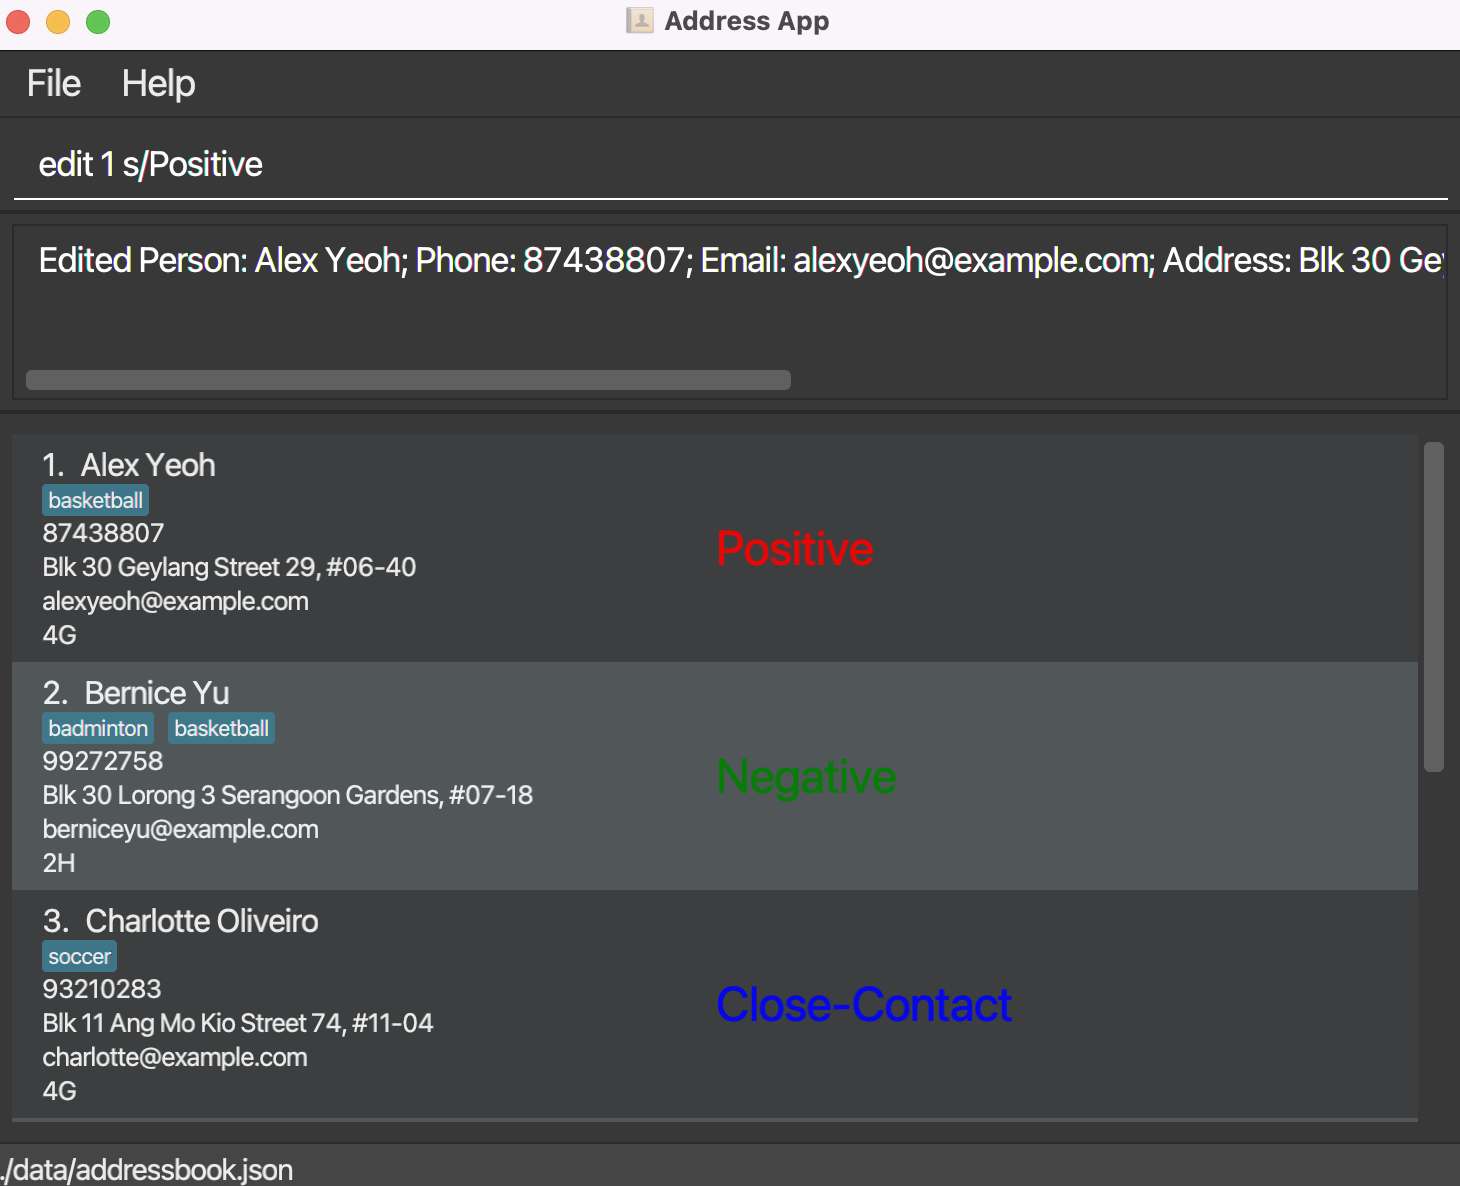
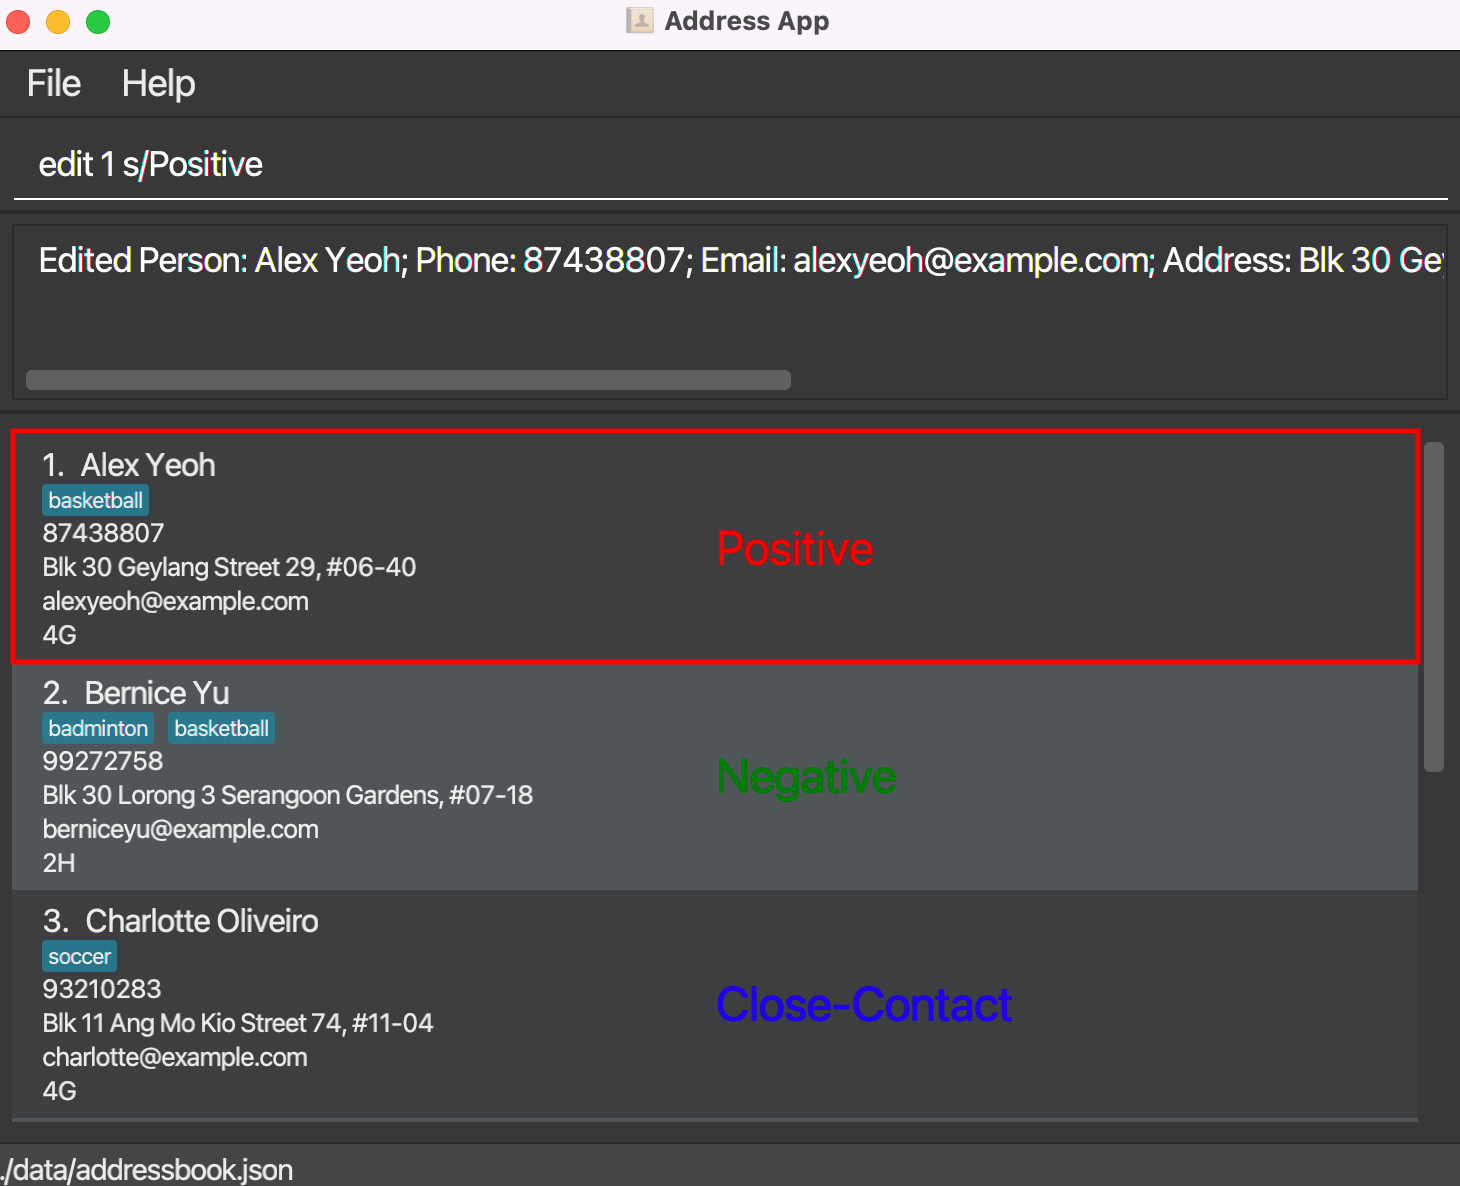
Changes to UG: - fixed AB3 issue during ctrl+p of github pages - added captions to images used in UG - added GUI/CLI and brief intro of the application - add red box for `edit` command figure to highlight the student changed

Changed region(s): [[0.0, 0.3432, 0.9863, 0.5616], [0.0308, 0.0, 0.0925, 0.0312]]

diff --git a/docs/_sass/minima/_base.scss b/docs/_sass/minima/_base.scss
@@ -288,7 +288,7 @@ table {
     text-align: center;
   }
   .site-header:before {
-    content: "AB-3";
+    content: "Ultimate Divoc Tracker";
     font-size: 32px;
   }
 }

diff --git a/docs/UserGuide.md b/docs/UserGuide.md
@@ -2,15 +2,21 @@
 layout: page title: User Guide
 ---
 
-**Ultimate DivocTracker _(UDT)_** is a desktop app for managing COVID-19 contacts in school administration, optimized for use via interacting with the application through easy-to-use commands through a user-friendly interface. Ultimate Divoc Tracker can get your contact-tracing tasks done faster than traditional GUI apps if you can type fast. Even if you can't, this user guide will guide you through how to use UDT effectively and efficiently.
+**Ultimate DivocTracker _(UDT)_** is a desktop app for managing COVID-19 contacts in school administration, optimized for use via interacting with the application through easy-to-use commands on a user-centric interface. 
+Ultimate Divoc Tracker can get your contact-tracing tasks done faster than traditional GUI apps. 
 
-School administrators _(like teachers)_ in charge of managing COVID can use UDT to easily track COVID-19 cases amongst the student population with ease and concentrate on what matters most, the education of the students.
+School administrators _(like teachers)_ in charge of managing COVID-19 can use UDT to easily track COVID-19 cases amongst the student population with ease and concentrate on what matters most, the education of the students.
+
+Through this user guide, you will learn how to use UDT effectively and efficiently, to manage COVID-19 cases in your schools.
+Features below are accompanied by instructions, figures and examples to help you understand how to use them.
+A glossary is included at the end to clarify any technical or vague terms used.
 
 # Content Page
 
 <div markdown="block" class="alert alert-info">
 
 - [Quick start](#quick-start)
+- [About UDT](#about-udt)
 - [Features](#features)
   - [Add a student](#add-a-student-add): `add`
   - [List all students](#list-all-students-list): `list`
@@ -25,12 +31,16 @@ School administrators _(like teachers)_ in charge of managing COVID can use UDT 
 - [Editing the data file](#editing-the-data-file)
 - [Frequently Asked Questions](#faq)
 - [Command Summary](#command-summary)
+- [Glossary](#glossary)
 
 </div>
 
 # Quick start
 1. Ensure you have **Java 11** or above installed in your Computer.
    - You can download **Java 11** from [this link](https://www.oracle.com/java/technologies/downloads/#java11).
+   - To check which version of Java you have installed:
+     1. Type "Command Prompt" into the search bar next to your Start menu, and click on it when it appears in the search results.
+     2. Type "java -version" into the Command Prompt, then press Enter on your keyboard.
 2. Download the latest **ultimatedivoctracker.jar** from [our GitHub repository](https://github.com/AY2122S2-CS2103T-T12-1/tp/releases).
 3. Copy the file to the folder you want to use as the home folder for your Ultimate DivocTracker application.
 4. Double-click the file to start the app. The GUI similar to the one below should appear in a few seconds. Note how the app contains some sample data.
@@ -43,6 +53,31 @@ School administrators _(like teachers)_ in charge of managing COVID can use UDT 
 > - Currently officially supported for **Windows**, **Mac** and **Linux** platforms.
 
 </div>
+
+## About UDT
+Before we get into the details of what UDT can do, let's first bring you through what the application will look like.
+
+|![UDTGUI](images/UdtGuiWithLabels.png)|
+|:--:|
+|*Figure 1 - GUI*|
+
+As seen in Figure 1 above, the application contains 3 main segments.
+
+Firstly, the Command Line (area to input commands) is at the top of the application and can be easily seen by the blinking cursor/insertion point.
+
+Secondly, the box beneath the Command Line is where the application will produce any text outputs or errors if the command provided requires so.
+
+Lastly, each information card contains the following details of the student and are presented in order:
+1. Name
+2. Activity/Activities
+3. Phone Number
+4. Address
+5. Email Address
+6. Class
+7. COVID-19 Status
+
+With UDT, you can update and track COVID-19 Cases in your school, keep track of Close-Contacts, to perform timely updates to parents and Next-of-Kin.
+Filter through the endless list of students with a simple command to extract details on the cases by class, or by activities (CCAs etc.).
 
 # Features
 Below are a set of commands that can be used in the **_UDT_**. Their formats and examples are provided along with each feature.
@@ -62,8 +97,8 @@ Adds a student to the tracking list
   - `EMAIL` follows the standard email formatting 
     - eg. `johntan@example.com`
   - `PHONE_NUMBER` takes a sequence of numbers
-  - `STATUS` takes either of these strings `Positive`, `Negative`, `Close-Contact`
-    - `STATUS` is case-sensitive and should strictly follow the strings stated above
+  - `STATUS` takes either of these texts `Positive`, `Negative`, `Close-Contact`
+    - `STATUS` is case-sensitive and should strictly follow the texts stated above
 - Examples:
   - `add n/John Doe p/98765432 e/johnd@example.com a/John Street, Block 123 #01-01 cc/5A s/Negative`
   - `add n/Betsy Crowe p/99999999 e/betsycrowe@example.com a/Woodlands Street, Block 69 cc/2B s/Positive act/choir`
@@ -96,7 +131,9 @@ Shows a list of all students in the application.
 
 </div>
 
-![list command](images/user-guide/list.png)
+|![list command](images/user-guide/list.png)|
+|:--:|
+|*Figure 2 - `list` Command*|
 
 ## Find student by name: `find`
 Find an existing student in the application by their name
@@ -109,8 +146,10 @@ Find an existing student in the application by their name
     - `find john` can find students _"John Tan"_ and _"John Lee"_
 - Example:
   - `find bernice` will find student _"Bernice Yu"_
-
-![find command](images/user-guide/find.png)
+  
+|![find command](images/user-guide/find.png)|
+|:--:|
+|*Figure 3 - `find` Command*|
 
 ## Find student by status: `findstatus`
 Find an existing student in the application by their Covid-19 Status
@@ -121,8 +160,10 @@ Find an existing student in the application by their Covid-19 Status
 - Examples:
   - `findstatus positive` finds all students that are labelled COVID positive
   - `findstatus negative` finds all students that are labelled COVID negative
-
-![find status command](images/user-guide/findstatus.png)
+  
+|![find status command](images/user-guide/findstatus.png)|
+|:--:|
+|*Figure 4 - `findstatus` Command*|
 
 ## Find student by class: `findclasscode`
 Finds an existing student in the application by their class
@@ -136,24 +177,28 @@ Finds an existing student in the application by their class
 
 </div>
 
-![find classcode command](images/user-guide/findclasscode.png)
+|![find classcode command](images/user-guide/findclasscode.png)|
+|:--:|
+|*Figure 5 - `findclasscode` Command*|
 
 ## Find student by activity: `findactivity`
 Finds an existing student in the application by the activities they are participating in
 - Format: `findactivity ACTIVITIY [MORE ACTIVITIES]`
   - Returns a list of students with the specified `ACTIVITY`
-    - Matches based on students that have specified `ACTIVITY` and not just exactly those activities only
+    - Matches based on students that have specified `ACTIVITY` in their list of `ACTIVITIES`
   - If more than 1 activity is specified, command returns a list of student that participated in **ANY** of the activities specified
   - `ACTIVITY` is case-insensitive
 - Example:
   - `findactivity badminton` finds all students that have the activity _"Badminton"_
   - `findactivity badminton choir` finds all students that have the activity _"Badminton"_, _"choir"_ or **both**
 
-![find activity command](images/user-guide/findactivity.png)
+|![find activity command](images/user-guide/findactivity.png)|
+|:--:|
+|*Figure 6 - `findactivity` Command*|
 
 ## Edit student details: `edit`
 Edits an existing student's details in the list Index provided and the parts that you want to edit
-- Format: `edit INDEX [n/NAME] [p/PHONE_NUMBER] [e/EMAIL] [a/ADDRESS] [cc/CLASS] [s/STATUS] [act/ACTIVITIES]`
+- Format: `edit INDEX [n/NAME] [p/PHONE_NUMBER] [e/EMAIL] [a/ADDRESS] [cc/CLASS] [s/STATUS] [act/ACTIVITY] [act/MORE ACTIVITIES]`
   - Edits the student at the specified `INDEX`
   - `INDEX` denotes the list index of the student in the displayed list
   - `INDEX` must be a _positive integer (1, 2, 3...)_
@@ -170,7 +215,9 @@ Edits an existing student's details in the list Index provided and the parts tha
 
 </div>
 
-![edit command](images/user-guide/edit.png)
+|![edit command](images/user-guide/edit.png)|
+|:--:|
+|*Figure 7 - `edit` Command*|
 
 ## Delete a student: `delete`
 Deletes the specified person from the application.
@@ -188,7 +235,9 @@ Deletes the specified person from the application.
 
 </div>
 
-![delete command](images/user-guide/delete.png)
+|![delete command](images/user-guide/delete.png)|
+|:--:|
+|*Figure 8 - `delete` Command*|
 
 ## Exit the application: `exit`
 Exits the program.
@@ -240,17 +289,22 @@ A: An error message colored in red will appear stating that you have typed an un
 ----------------
 ## Command Summary
 
-| Action                                                             | Format                                                                                              | Example                                                                                                         |
-|--------------------------------------------------------------------|-----------------------------------------------------------------------------------------------------|-----------------------------------------------------------------------------------------------------------------|
-| [Add a student](#add-a-student-add)                                | `add n/NAME p/PHONE_NUMBER e/EMAIL a/ADDRESS cc/CLASS s/STATUS [act/ACTIVITIES]`                    | `add n/John Doe p/98765432 e/johnd@example.com a/John Street, Block 123, #01-01 cc/5A s/Negative act/badminton` |
-| [List all students](#list-all-students-list)                       | `list`                                                                                              | `list`                                                                                                          |
-| [Find student by name](#find-student-by-name-find)                 | `find NAME [MORE_NAME]`                                                                             | `find James Jake`                                                                                               |
-| [Find student by status](#find-student-by-status-findstatus)       | `findstatus STATUS`                                                                                 | `findstatus positive`                                                                                           |
-| [Find student by class](#find-student-by-class-findclasscode)      | `findclasscode CLASS`                                                                               | `findclasscode 4A`                                                                                              |
-| [Find student by activity](#find-student-by-activity-findactivity) | `findactivity ACTIVITY`                                                                             | `findactivity choir`                                                                                            |
-| [Edit student details](#edit-student-details-edit)                 | `edit INDEX [n/NAME] [p/PHONE_NUMBER] [e/EMAIL] [a/ADDRESS] [cc/CLASS] [s/STATUS] [act/ACTIVITIES]` | `edit 2 n/James Lee e/jameslee@example.com`                                                                     |
-| [Delete a student](#delete-a-student-delete)                       | `delete INDEX`                                                                                      | `delete 3`                                                                                                      |
-| [Exit the application](#exit-the-application-exit)                 | `exit`                                                                                              | `exit`                                                                                                          |
+| Action                                                             | Format                                                                                                                    | Example                                                                                                         |
+|--------------------------------------------------------------------|---------------------------------------------------------------------------------------------------------------------------|-----------------------------------------------------------------------------------------------------------------|
+| [Add a student](#add-a-student-add)                                | `add n/NAME p/PHONE_NUMBER e/EMAIL a/ADDRESS cc/CLASS s/STATUS [act/ACTIVITIES] [act/MORE ACTIVITIES]`                    | `add n/John Doe p/98765432 e/johnd@example.com a/John Street, Block 123, #01-01 cc/5A s/Negative act/badminton` |
+| [List all students](#list-all-students-list)                       | `list`                                                                                                                    | `list`                                                                                                          |
+| [Find student by name](#find-student-by-name-find)                 | `find NAME [MORE_NAME]`                                                                                                   | `find James Jake`                                                                                               |
+| [Find student by status](#find-student-by-status-findstatus)       | `findstatus STATUS`                                                                                                       | `findstatus positive`                                                                                           |
+| [Find student by class](#find-student-by-class-findclasscode)      | `findclasscode CLASS`                                                                                                     | `findclasscode 4A`                                                                                              |
+| [Find student by activity](#find-student-by-activity-findactivity) | `findactivity ACTIVITY`                                                                                                   | `findactivity choir`                                                                                            |
+| [Edit student details](#edit-student-details-edit)                 | `edit INDEX [n/NAME] [p/PHONE_NUMBER] [e/EMAIL] [a/ADDRESS] [cc/CLASS] [s/STATUS] [act/ACTIVITIES] [act/MORE ACTIVITIES]` | `edit 2 n/James Lee e/jameslee@example.com`                                                                     |
+| [Delete a student](#delete-a-student-delete)                       | `delete INDEX`                                                                                                            | `delete 3`                                                                                                      |
+| [Exit the application](#exit-the-application-exit)                 | `exit`                                                                                                                    | `exit`                                                                                                          |
 
 ----------------
 
+## Glossary
+| Term      | Meaning                                 |
+|-----------|-----------------------------------------|
+| Parameter | Input supplied after the command        |
+| JSON      | A file type that UDT uses to store data |
